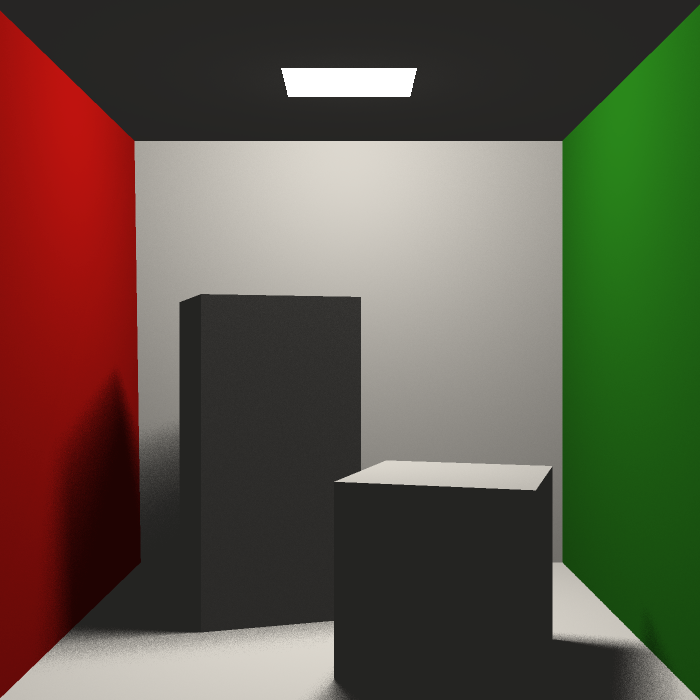
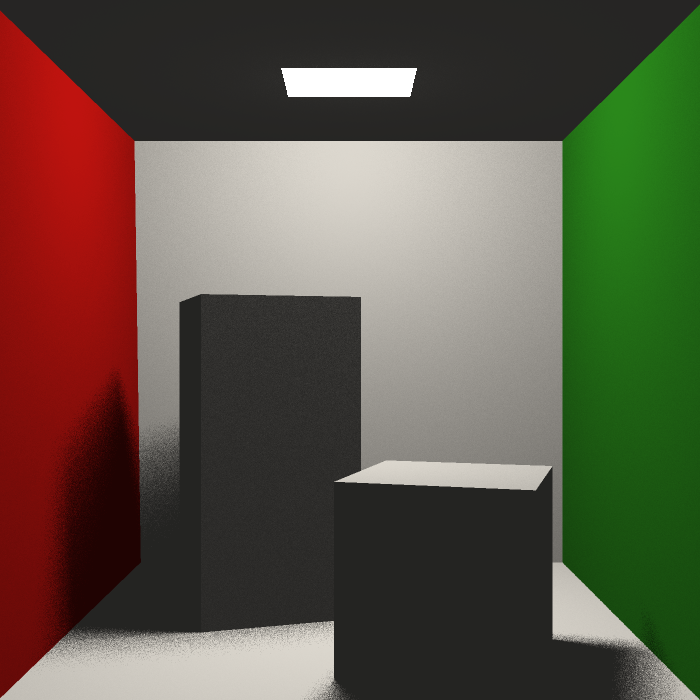
Add reflection

diff --git a/src/scene.rs b/src/scene.rs
@@ -85,6 +85,75 @@ impl Scene {
         return &self.textures[idx];
     }
 
+    fn intersect_ray(&self, ray: &Ray, lights: &Vec<Vec4d>) -> Vec4d {
+        match self.intersect(ray) {
+            None => return Vec4d::new(),
+            Some((c, shadable)) => {
+                let fragment = shadable.compute_fragment(self, ray, &c);
+                let material = match fragment.material {
+                    Some(inner) => self.get_material(inner),
+                    None => return Vec4d::new(),
+                };
+                let surface = material.compute_surface_properties(self, &fragment);
+                let ambient_colour = Vec4d::from(surface.ambient_colour);
+                let mut diffuse_colour = Vec4d::from(surface.diffuse_colour);
+                if let Some(c) = surface.emissive_colour {
+                    return Vec4d::from(c);
+                }
+
+                let mut colour = if surface.secondaries.len() > 0 {
+                    Vec4d::new()
+                } else {
+                    ambient_colour * 0.2
+                };
+                if true {
+                    let mut remaining_weight = 1.0;
+                    for (ray, _colour, weight) in &surface.secondaries {
+                        if remaining_weight <= 0.0 {
+                            break;
+                        }
+                        remaining_weight -= weight;
+                        colour = colour + self.intersect_ray(ray, lights) * *weight;
+                    }
+                    diffuse_colour = diffuse_colour * remaining_weight;
+                    if diffuse_colour.length() <= 0.01 {
+                        return colour;
+                    }
+                    let light_samples = 5;
+                    let mut has_intersected = false;
+                    for i in 0..light_samples {
+                        let light = &lights[thread_rng().gen_range(0, lights.len())];
+                        let mut ldir = *light - surface.position;
+                        let ldir_len = ldir.dot(ldir).sqrt();
+                        ldir = ldir.normalize();
+                        if i * 2 < light_samples || has_intersected {
+                            let shadow_test = Ray::new_bound(
+                                surface.position,
+                                ldir,
+                                0.01 * ldir_len,
+                                ldir_len * 0.999,
+                            );
+
+                            if self.intersect(&shadow_test).is_some() {
+                                has_intersected = true;
+                                continue;
+                            }
+                        }
+                        let diffuse_intensity = ldir.dot(surface.normal) / light_samples as f64;
+                        if diffuse_intensity <= 0.0 {
+                            continue;
+                        }
+
+                        colour = colour + diffuse_colour * diffuse_intensity;
+                    }
+                } else {
+                    colour = diffuse_colour;
+                    // Vec4d::vector(diffuse_colour.x, 1. - c.distance.log10() / 2., 0.0); // ambient_colour + diffuse_colour;
+                }
+                return colour;
+            }
+        }
+    }
     pub fn render<C: Camera>(&self, camera: &C, size: usize) -> DynamicImage {
         let mut result = image::RgbImage::new(size as u32, size as u32);
         let mut buffer: Vec<Vec<Vec4d>> = vec![];
@@ -133,70 +202,8 @@ impl Scene {
         };
         println!("virtual count: {}", lights.len());
         for (x, y, pixel_contribution_weight, ray) in &rays {
-            match self.intersect(ray) {
-                None => continue,
-                Some((c, shadable)) => {
-                    let fragment = shadable.compute_fragment(self, ray, &c);
-                    let material = match fragment.material {
-                        Some(inner) => self.get_material(inner),
-                        None => continue,
-                    };
-                    let surface = material.compute_surface_properties(self, &fragment);
-                    let ambient_colour = Vec4d::from(surface.ambient_colour);
-                    let diffuse_colour = Vec4d::from(surface.diffuse_colour);
-                    let emissive_colour = if let Some(c) = surface.emissive_colour {
-                        Some(Vec4d::from(c))
-                    } else {
-                        None
-                    };
-                    let mut colour = ambient_colour * 0.2;
-                    if let Some(e_colour) = emissive_colour {
-                        colour = e_colour;
-                    } else if true {
-                        if diffuse_colour.length() <= 0.01 {
-                            continue;
-                        }
-                        let mut remaining_weight = 1.0;
-                        for (ray, colour, weight) in &surface.secondaries {
-                            if remaining_weight <= 0.0 {
-                                break;
-                            }
-                            remaining_weight -= weight;
-                        }
-                        let light_samples = 20;
-                        let mut has_intersected = false;
-                        for i in 0..light_samples {
-                            let light = &lights[thread_rng().gen_range(0, lights.len())];
-                            let mut ldir = *light - surface.position;
-                            let ldir_len = ldir.dot(ldir).sqrt();
-                            ldir = ldir.normalize();
-                            if i * 2 < light_samples || has_intersected {
-                                let shadow_test = Ray::new_bound(
-                                    surface.position,
-                                    ldir,
-                                    0.01 * ldir_len,
-                                    ldir_len * 0.999,
-                                );
-
-                                if self.intersect(&shadow_test).is_some() {
-                                    has_intersected = true;
-                                    continue;
-                                }
-                            }
-                            let diffuse_intensity = ldir.dot(surface.normal) / light_samples as f64;
-                            if diffuse_intensity <= 0.0 {
-                                continue;
-                            }
-
-                            colour = colour + diffuse_colour * diffuse_intensity;
-                        }
-                    } else {
-                        colour = diffuse_colour;
-                        // Vec4d::vector(diffuse_colour.x, 1. - c.distance.log10() / 2., 0.0); // ambient_colour + diffuse_colour;
-                    }
-                    buffer[x + y * size].push(colour * *pixel_contribution_weight);
-                }
-            }
+            let colour = self.intersect_ray(ray, &lights);
+            buffer[x + y * size].push(colour * *pixel_contribution_weight);
         }
 
         for (x, y, _pixel) in result.enumerate_pixels_mut() {

diff --git a/src/wavefront_material.rs b/src/wavefront_material.rs
@@ -156,7 +156,7 @@ impl Material for WFMaterial {
 
         let reflected_ray = (-2.0 * f.view.dot(normal) * normal + f.view).normalize();
         result.secondaries.push((
-            Ray::new(f.position + reflected_ray * 0.001, reflected_ray),
+            Ray::new(f.position + reflected_ray * 0.01, reflected_ray),
             result.specular_colour,
             1.0,
         ));
